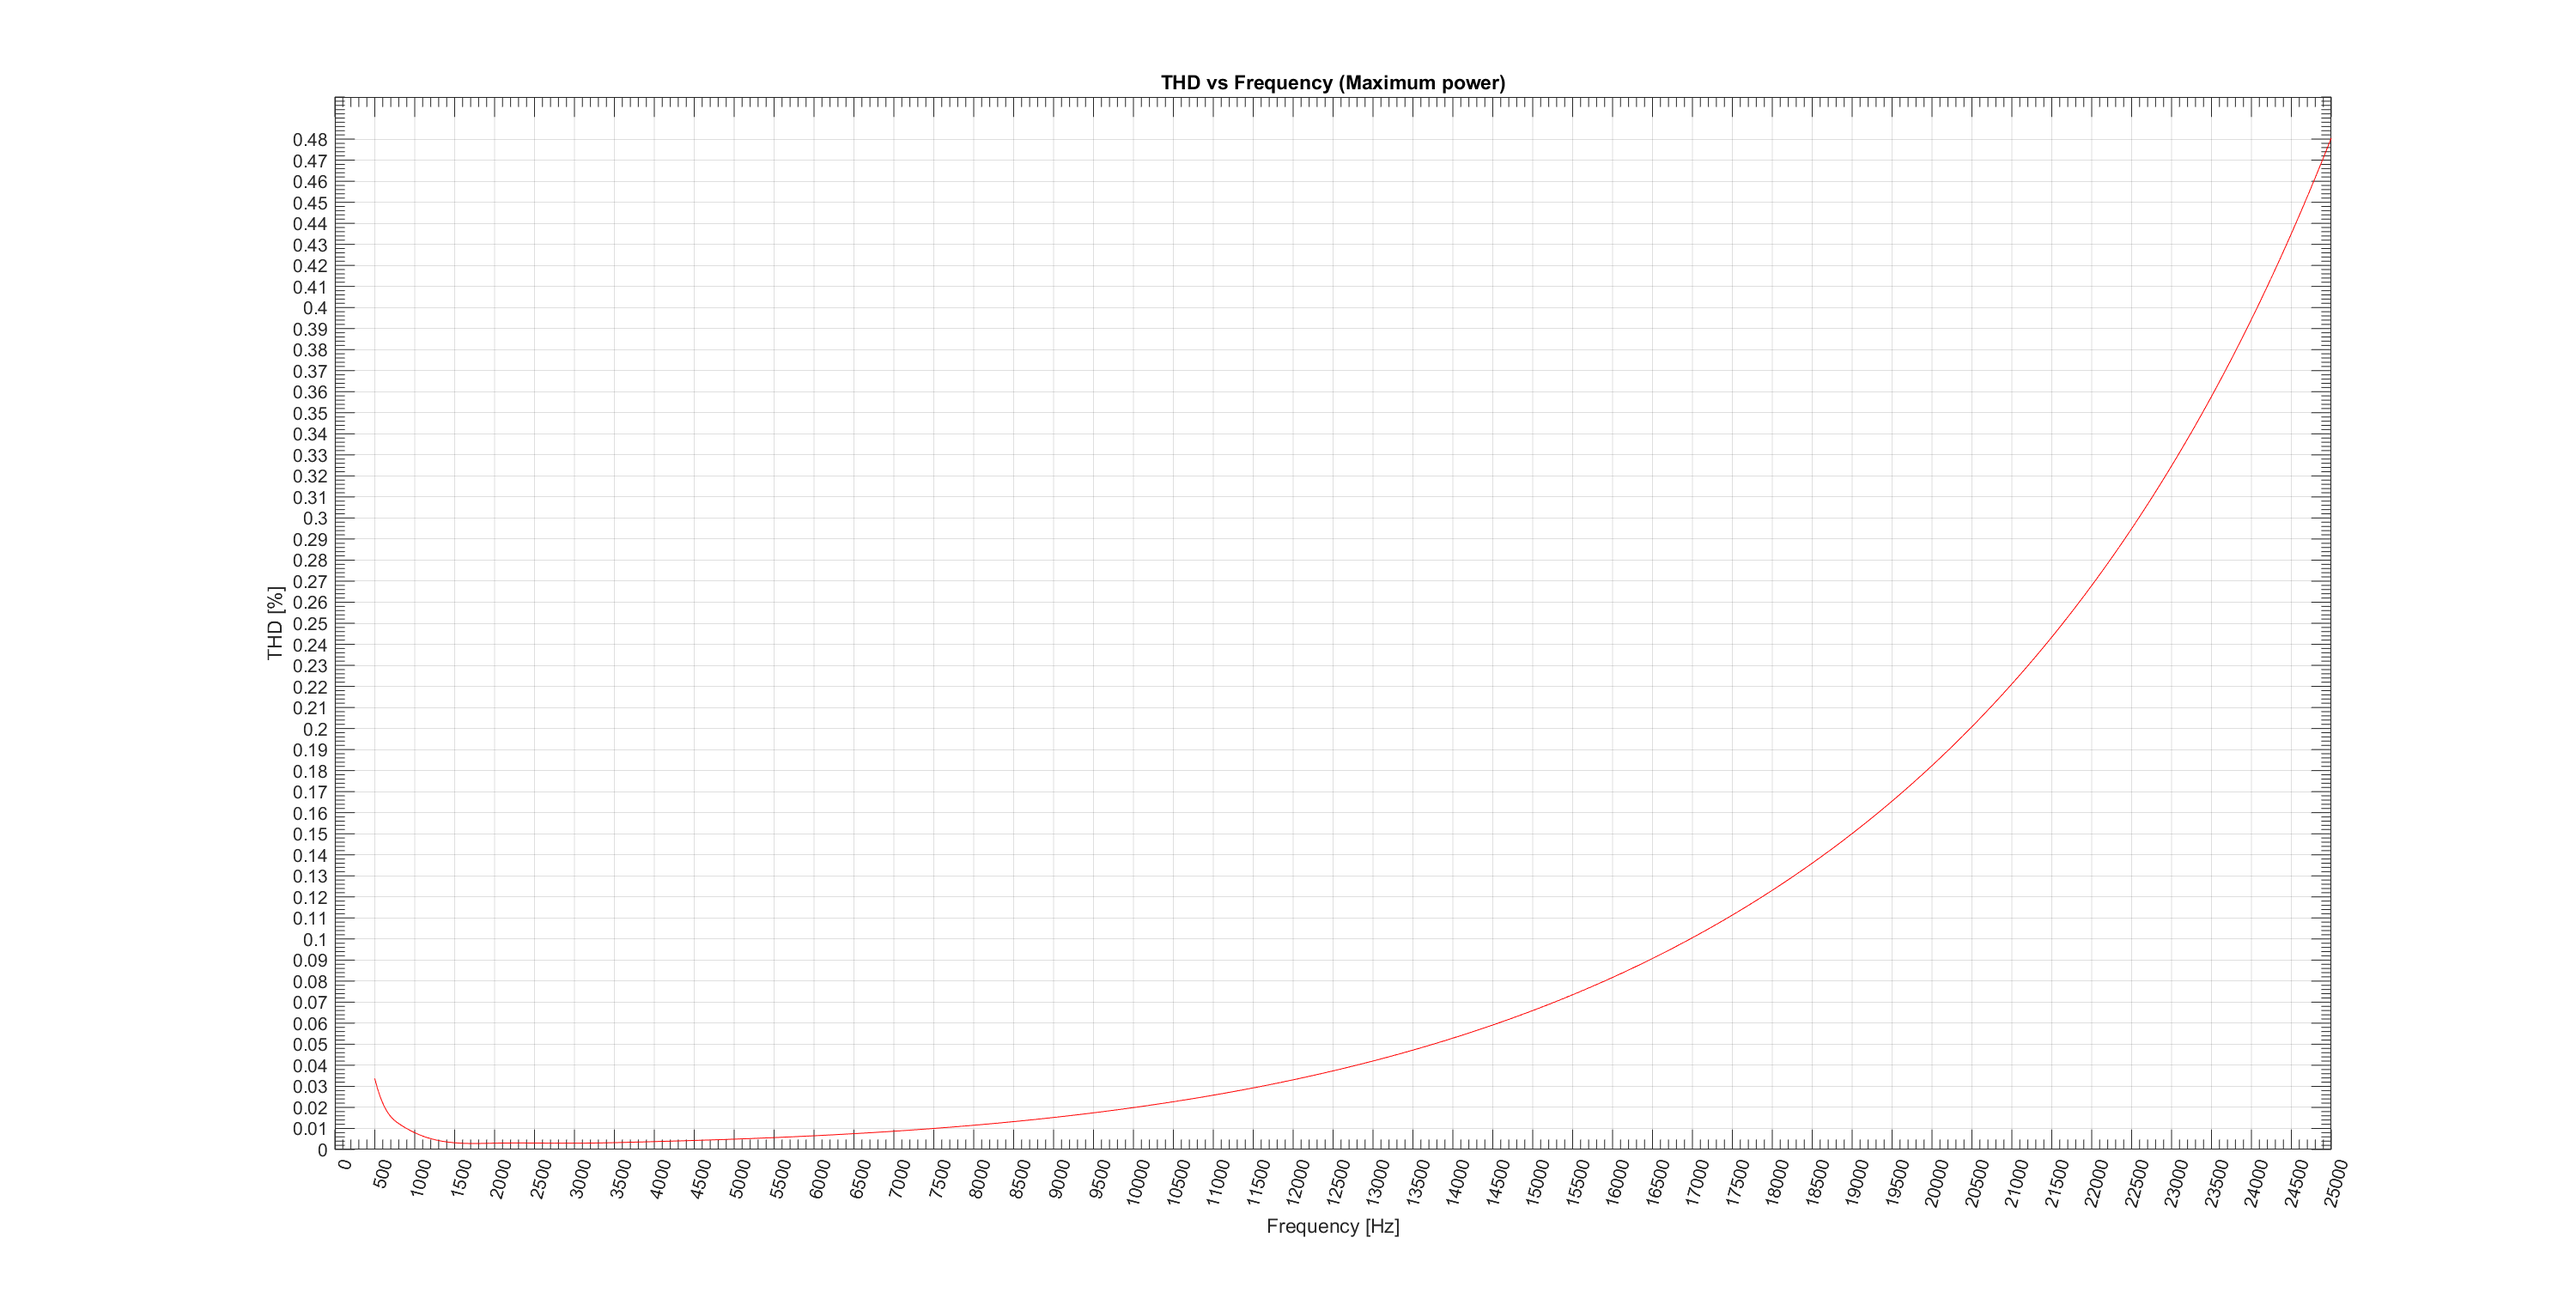
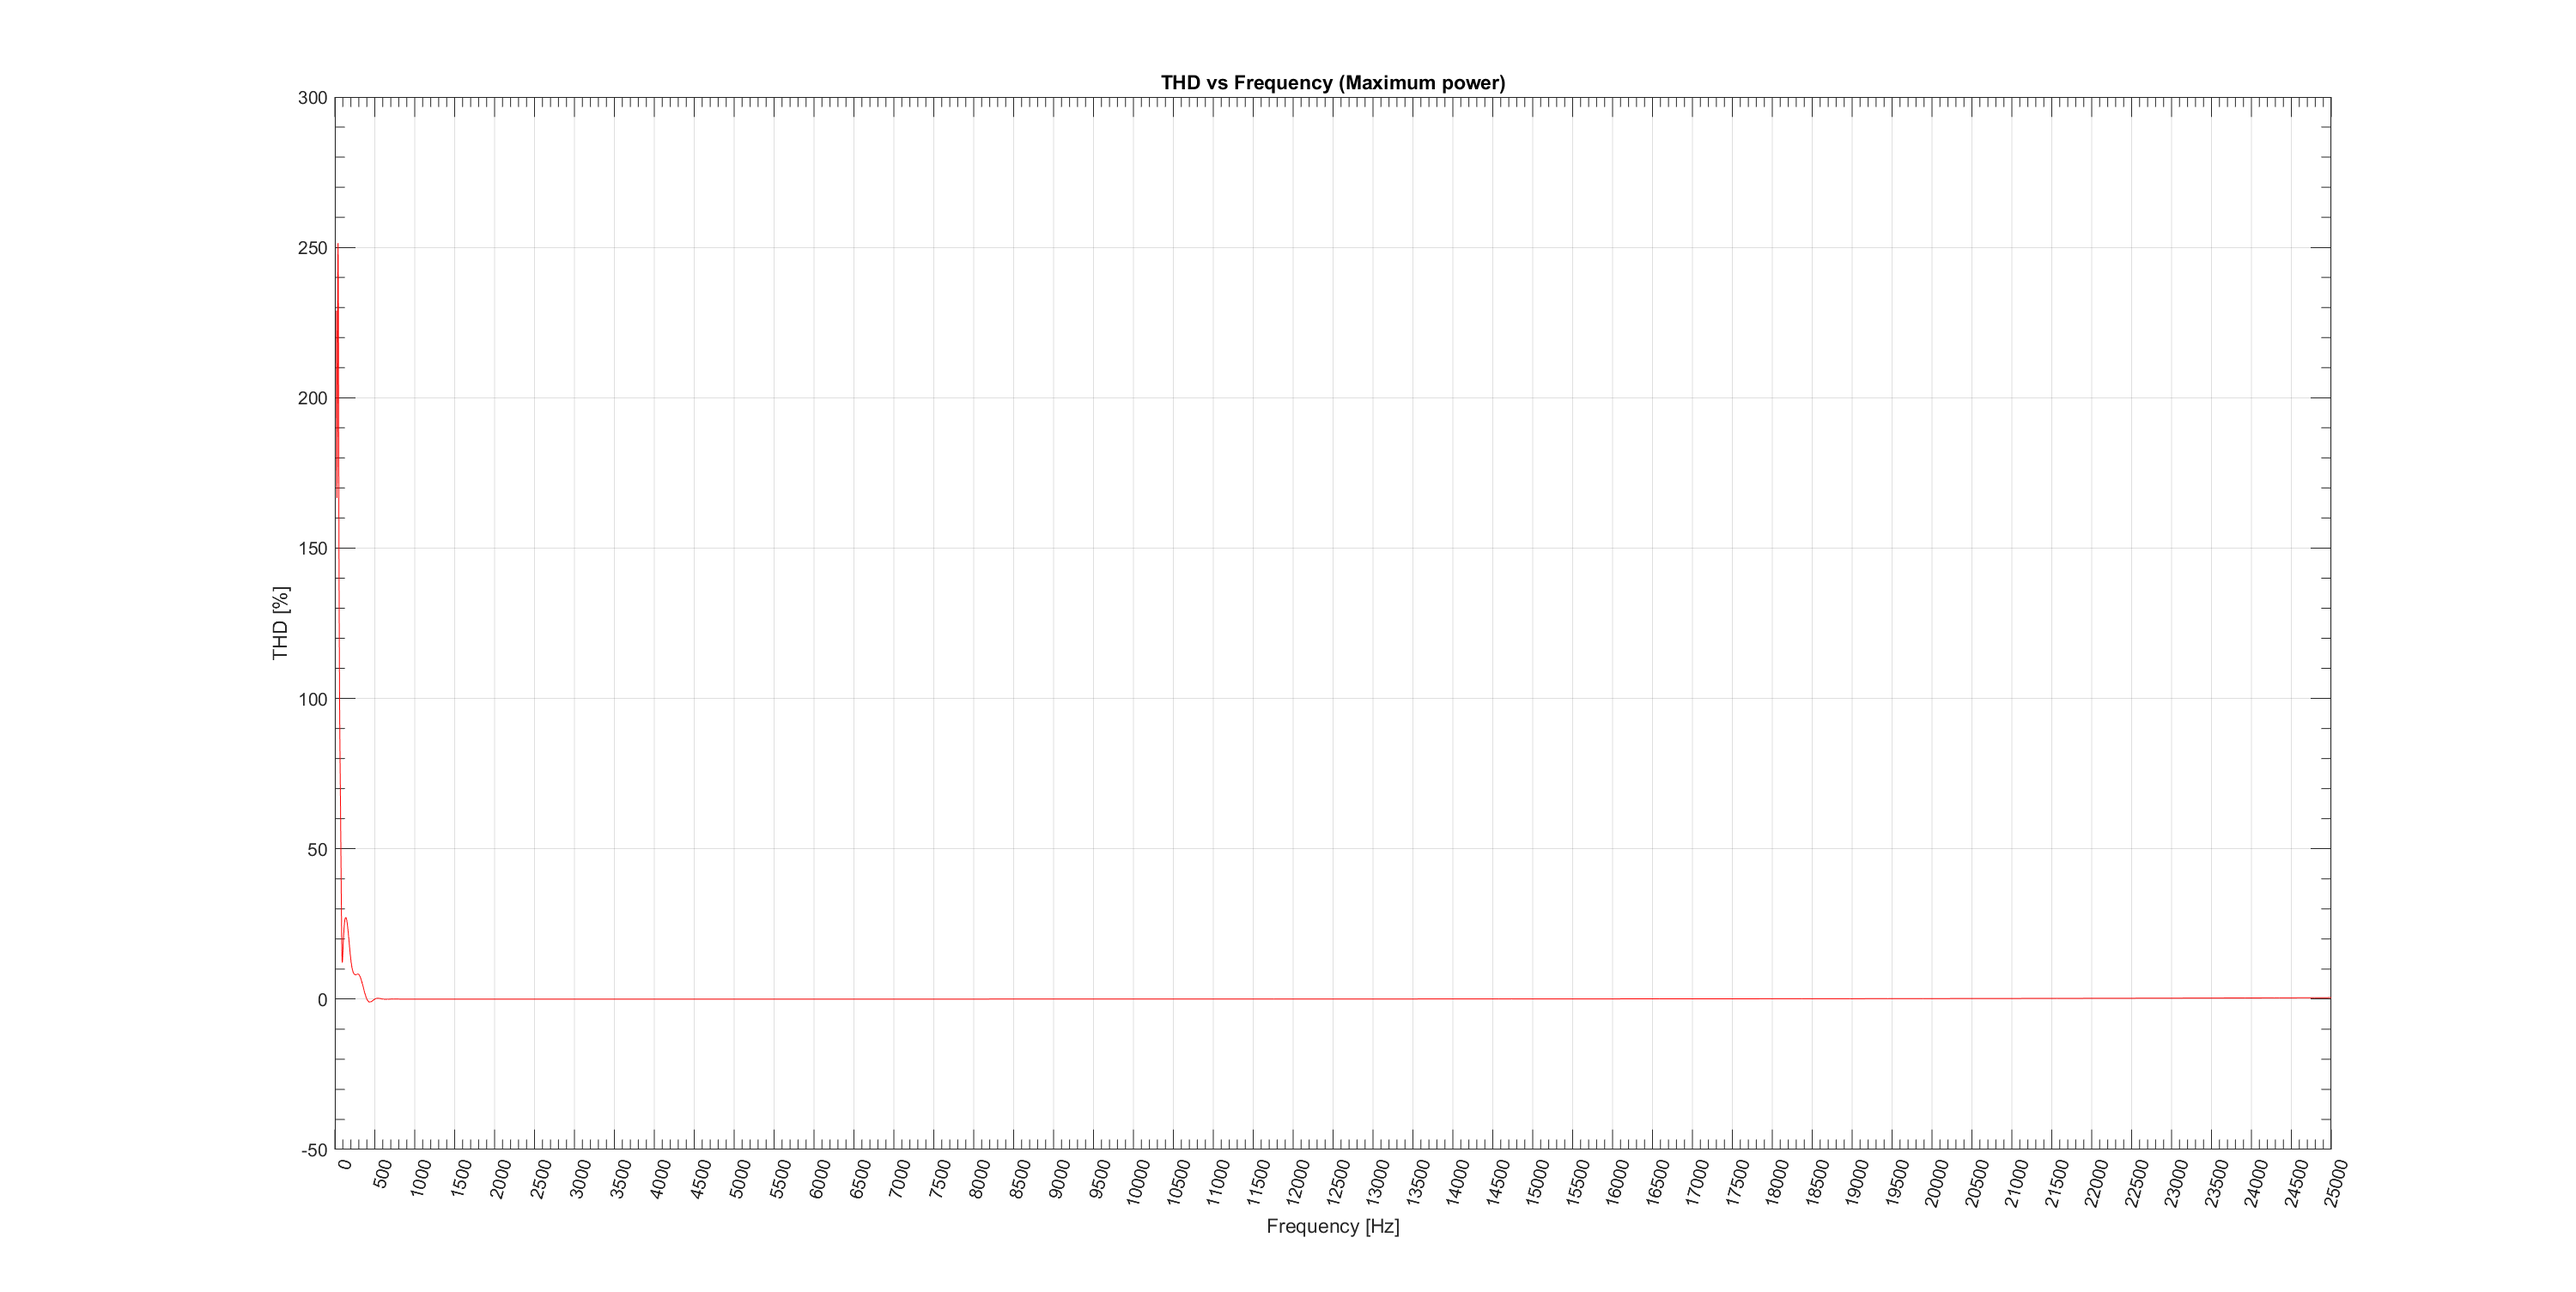
Corrigiendo simulaciones de THD.

diff --git a/Spice (Diego)/amplifier/plots/THD.m b/Spice (Diego)/amplifier/plots/THD.m
@@ -9,7 +9,7 @@ THD_vs_freq = dlmread('THD_vs_freq.txt', '\t');
 f_THD_vs_freq = @(y) interp1(THD_vs_freq(:,1), THD_vs_freq(:,2), ...
     y, 'spline');
 
-freq_points=THD_vs_freq(1,1):0.01:THD_vs_freq(length(THD_vs_freq(:,1)),1);
+freq_points=THD_vs_freq(1,1):0.1:THD_vs_freq(length(THD_vs_freq(:,1)),1);
 
 figure1 = figure('WindowState','maximized');
 
@@ -34,7 +34,7 @@ axes1.XAxis.Exponent = 0;
 
 axes1.YAxis.Exponent = 0;
 
-THD_points = 0:0.01:max(THD_vs_freq(:,2));
+%THD_points = 0:0.1:max(THD_vs_freq(:,2));
 
 freq_points_sp=0:500:THD_vs_freq(length(THD_vs_freq(:,1)),1);
 
@@ -44,9 +44,9 @@ xlim(axes1, [0 THD_vs_freq(length(THD_vs_freq(:,1)),1)]);
 set(axes1,'XGrid','on','XMinorTick','on','XTick',...
     freq_points_sp, 'XTickLabel', ...
     cellfun(@num2str,num2cell(freq_points_sp),'uni',false), ...
-    'YGrid','on','YMinorTick','on','YTick',...
-    THD_points, 'YTickLabel', ...
-    cellfun(@num2str,num2cell(THD_points),'uni',false));
+    'YGrid','on','YMinorTick','on');%,'YTick',...
+    %THD_points, 'YTickLabel', ...
+    %cellfun(@num2str,num2cell(THD_points),'uni',false));
     %'XScale', 'log');
 
 plot(axes1, freq_points, f_THD_vs_freq(freq_points),'Color',[1 0 0]);
